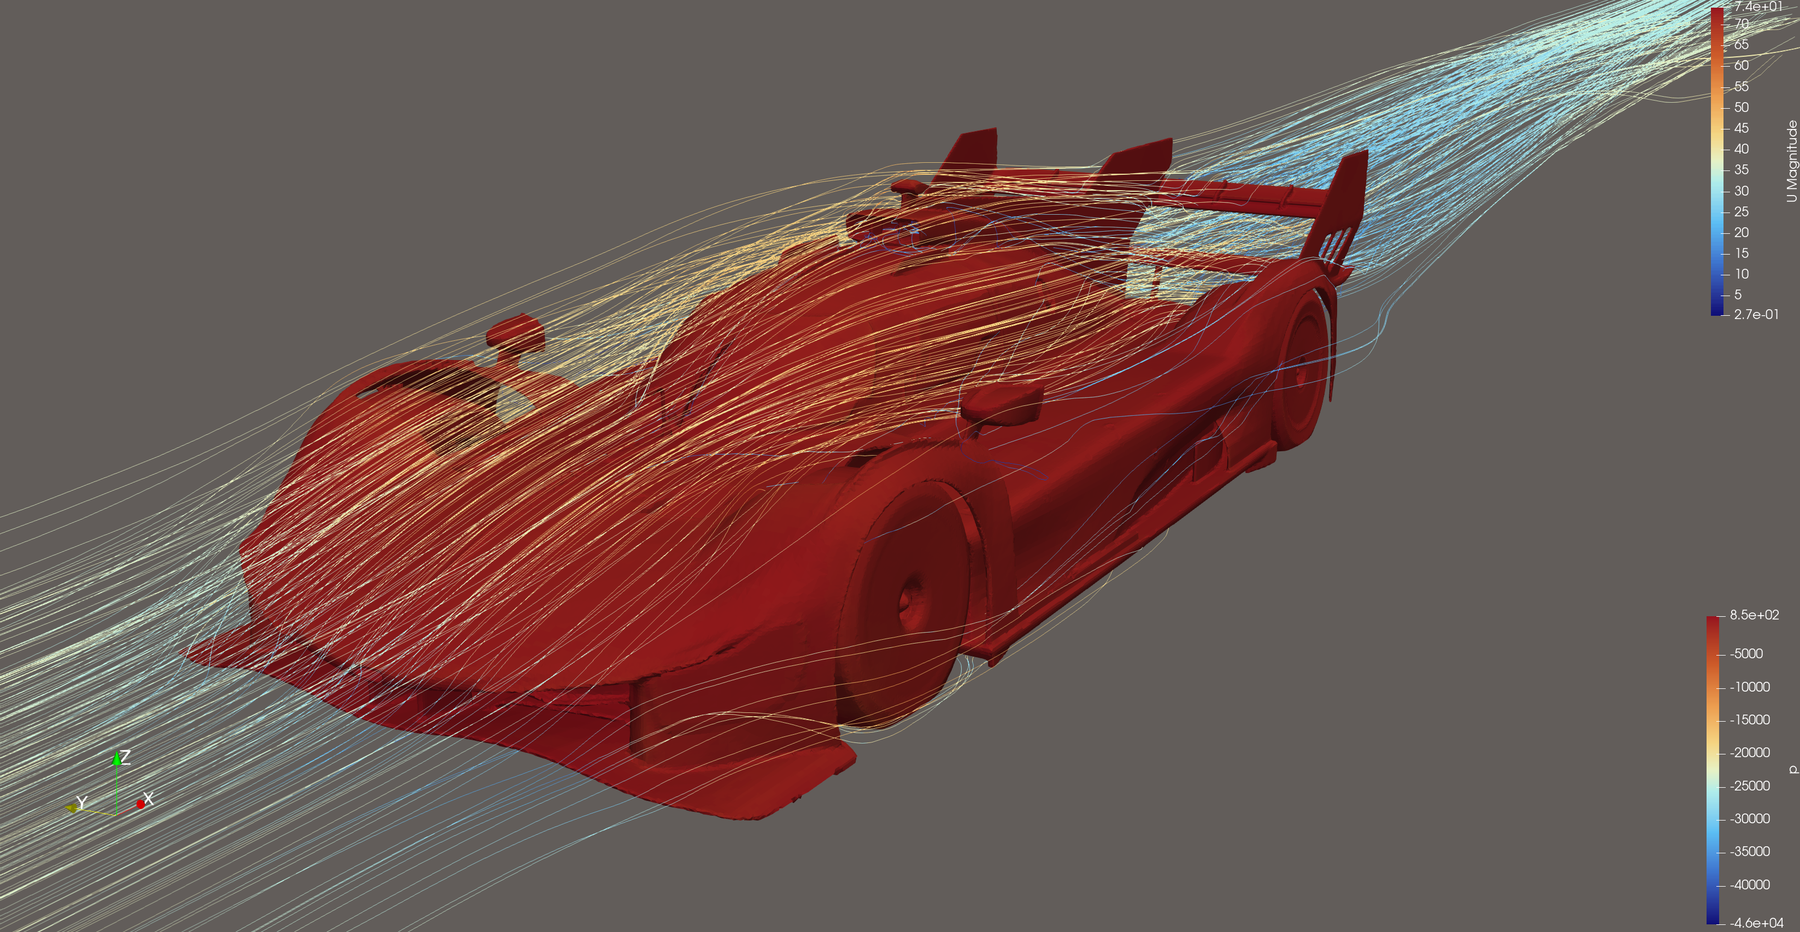
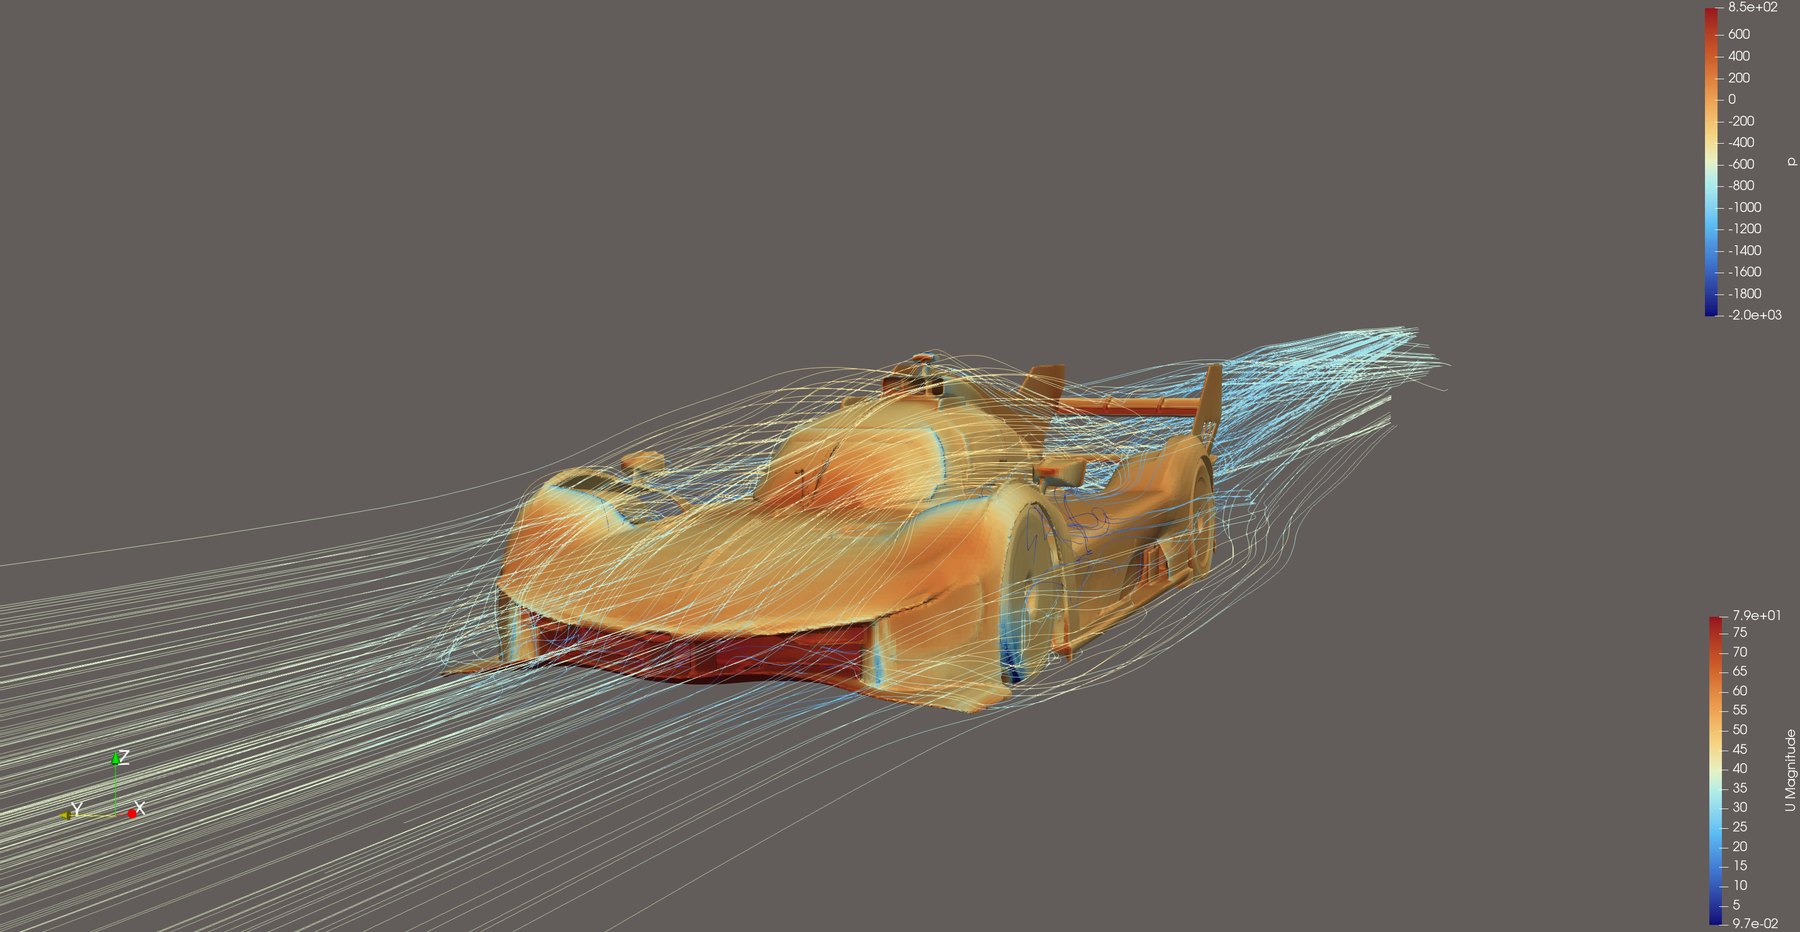
Replace ParaView images with fixed-range pressure renders; add rear and floor views

diff --git a/corvette/README.md b/corvette/README.md
@@ -2,9 +2,19 @@
 
 External aerodynamics of a production sports car (C5 generation, 1997–2004).
 
-![Streamlines](results/streamlines.png)
+| ![Front three-quarter view](results/streamlines_front.png) |
+|:--:|
+| Front three-quarter view |
 
-*Streamlines coloured by kinematic pressure. Note the low-pressure wake behind the car.*
+| ![Rear three-quarter view](results/streamlines_rear.png) |
+|:--:|
+| Rear three-quarter view |
+
+| ![Underside, viewed from below (flow runs top to bottom)](results/streamlines_floor.png) |
+|:--:|
+| Underside, viewed from below (flow runs top to bottom) |
+
+*Body surface coloured by kinematic pressure p (m²/s², fixed range −2000 to +840; +800 is the stagnation value ½U² at 40 m/s). Streamlines coloured by velocity magnitude (m/s).*
 
 ![Convergence](results/convergence.png)
 
@@ -38,7 +48,7 @@ OpenFOAM's `p` is kinematic (pressure divided by density, in m²/s²). At 40 m/s
 stagnation point down to a few thousand negative. In the final solution, 69 cells fall below −3,000 and the
 minimum is −13,325, while 99.99 % of cells lie between −1,507 and +800. These cells sit next to the highly skewed
 faces reported by `checkMesh`. They're too few to affect the integrated forces, but they stretch the automatic colour
-range in ParaView (see the legend in the image above), so pressure plots should use a fixed range.
+range in ParaView, which is why the images above use a fixed range of −2000 to +840.
 The fix is to improve the local mesh quality there (surface repair, snapping controls or mesh-quality settings in
 `snappyHexMeshDict`).
 

diff --git a/ferrari-499p/README.md b/ferrari-499p/README.md
@@ -4,10 +4,15 @@ External aerodynamics of the Ferrari 499P, a Le Mans Hypercar. It's the only car
 this set designed to produce downforce, so this case looks at how that downforce
 is split between the front and rear.
 
-![Streamlines, front](results/streamlines_front.png)
-![Streamlines, rear](results/streamlines_rear.png)
+| ![Front three-quarter view](results/streamlines_front.png) |
+|:--:|
+| Front three-quarter view |
 
-*Streamlines coloured by velocity magnitude (m/s), 1000 seeds.*
+| ![Rear three-quarter view](results/streamlines_rear.png) |
+|:--:|
+| Rear three-quarter view |
+
+*Body surface coloured by kinematic pressure p (m²/s², fixed range −2000 to +840; +800 is the stagnation value ½U² at 40 m/s). Streamlines coloured by velocity magnitude (m/s).*
 
 ![Convergence](results/convergence.png)
 
@@ -50,7 +55,7 @@ OpenFOAM's `p` is kinematic (pressure divided by density, in m²/s²). At 40 m/s
 stagnation point down to a few thousand negative. In the final solution, 150 cells fall below −3,000 and the
 minimum is −45,856, while 99.99 % of cells lie between −2,050 and +800. These cells sit next to the highly skewed
 faces reported by `checkMesh`. They're too few to affect the integrated forces, but they stretch the automatic colour
-range in ParaView (see the legend in the image above), so pressure plots should use a fixed range.
+range in ParaView, which is why the images above use a fixed range of −2000 to +840.
 The fix is to improve the local mesh quality there (surface repair, snapping controls or mesh-quality settings in
 `snappyHexMeshDict`).
 

diff --git a/mustang/README.md b/mustang/README.md
@@ -2,9 +2,19 @@
 
 External aerodynamics of a production muscle car.
 
-![Streamlines](results/streamlines.png)
+| ![Front three-quarter view](results/streamlines_front.png) |
+|:--:|
+| Front three-quarter view |
 
-*A line of streamlines seeded across the car, coloured by kinematic pressure (m²/s²).*
+| ![Rear three-quarter view](results/streamlines_rear.png) |
+|:--:|
+| Rear three-quarter view |
+
+| ![Underside, viewed from below (flow runs top to bottom)](results/streamlines_floor.png) |
+|:--:|
+| Underside, viewed from below (flow runs top to bottom) |
+
+*Body surface coloured by kinematic pressure p (m²/s², fixed range −2000 to +840; +800 is the stagnation value ½U² at 40 m/s). Streamlines coloured by velocity magnitude (m/s).*
 
 ![Convergence](results/convergence.png)
 
